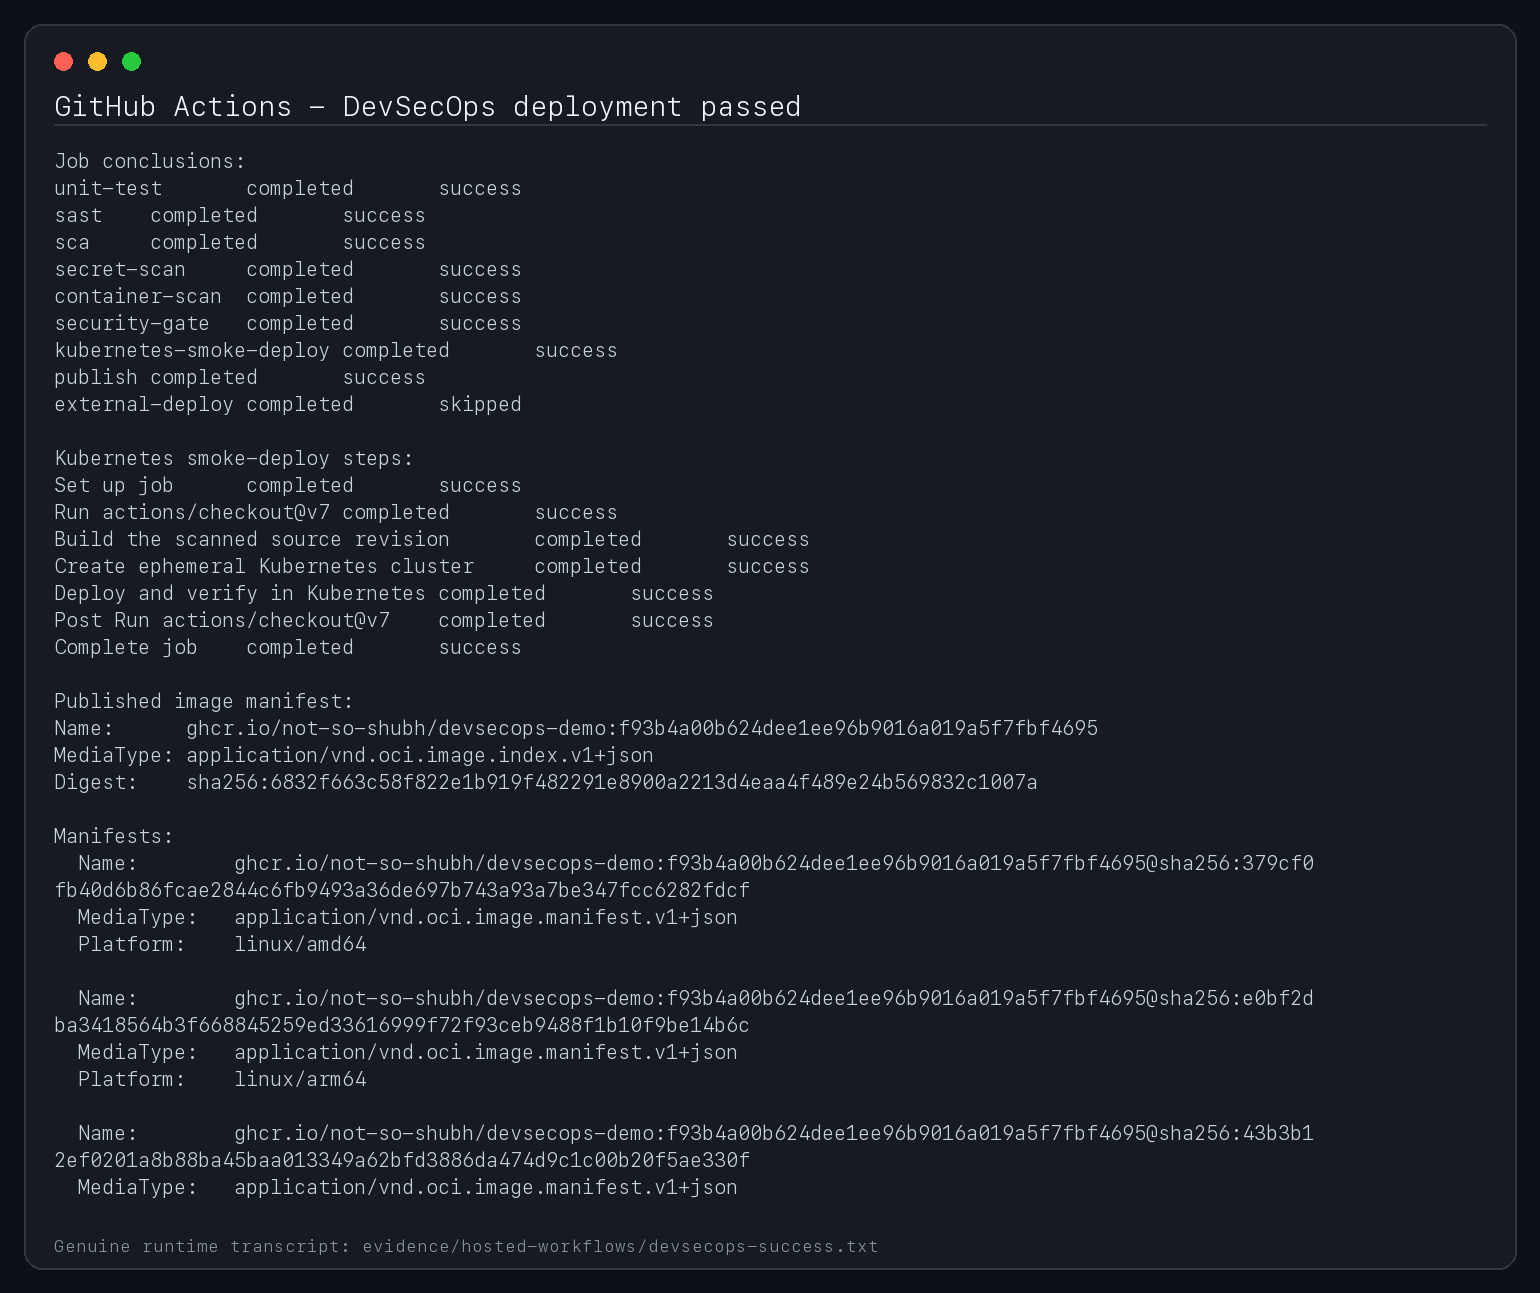
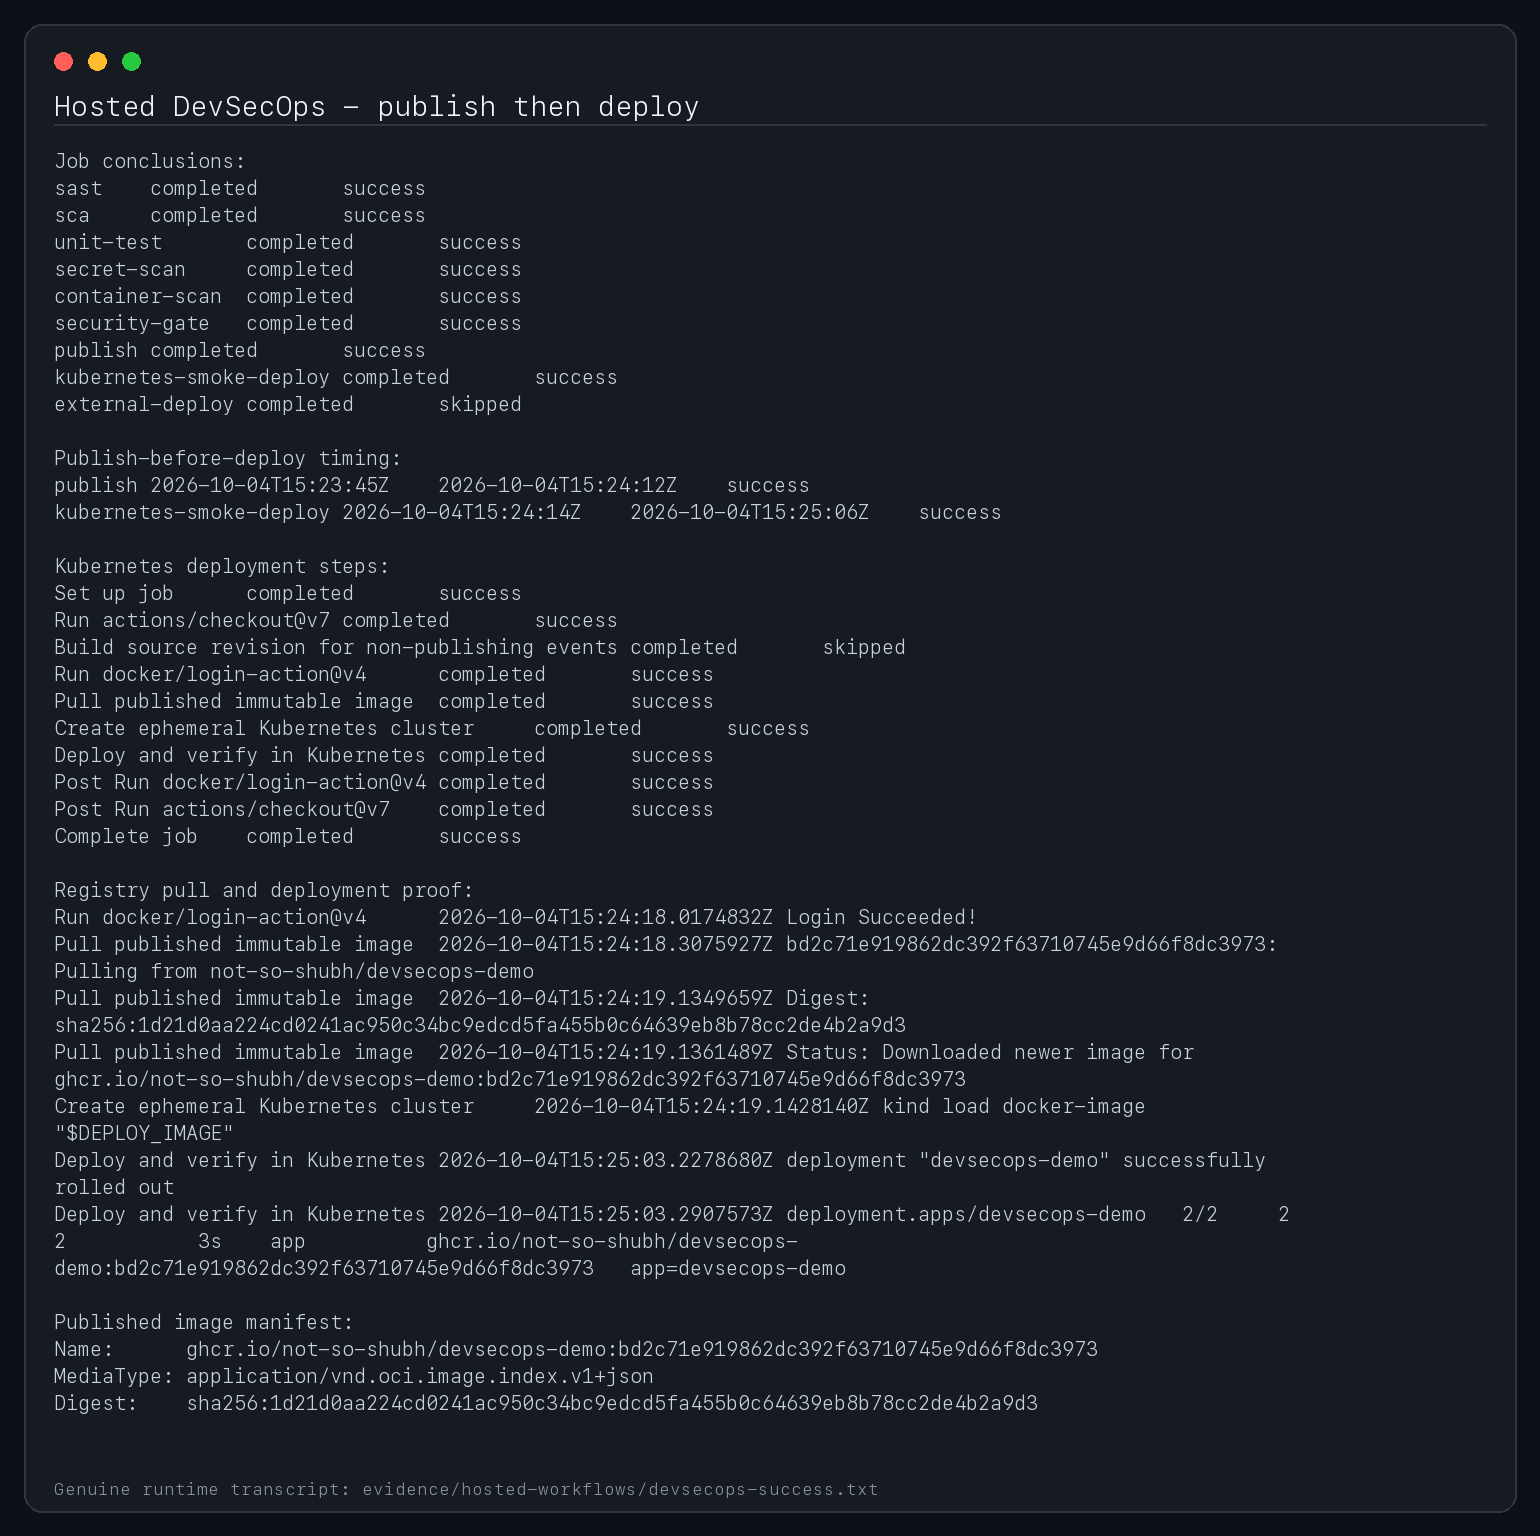
Refresh hosted publish-and-deploy evidence

Changed region(s): [[0.0312, 0.0309, 0.8416, 0.9281], [0.0312, 0.959, 0.5922, 0.9899], [0.561, 0.4022, 0.5922, 0.4331]]

diff --git a/evidence/hosted-workflows/README.md b/evidence/hosted-workflows/README.md
@@ -4,8 +4,8 @@ These transcripts were captured from successful GitHub-hosted runs, and the PNGs
 
 | Workflow | Successful run | Evidence |
 |---|---|---|
-| CI/CD | [37197231672](https://github.com/not-so-shubh/devops-homework/actions/runs/37197231672) | [transcript](ci-cd-success.txt) · [capture](01-ci-cd-success.png) |
-| DevSecOps | [37197332796](https://github.com/not-so-shubh/devops-homework/actions/runs/37197332796) | [transcript](devsecops-success.txt) · [capture](02-devsecops-success.png) |
-| Final project | [37197332795](https://github.com/not-so-shubh/devops-homework/actions/runs/37197332795) | [transcript](final-project-success.txt) · [capture](03-final-project-success.png) |
+| CI/CD | [37212766677](https://github.com/not-so-shubh/devops-homework/actions/runs/37212766677) | [transcript](ci-cd-success.txt) · [capture](01-ci-cd-success.png) |
+| DevSecOps | [37212766674](https://github.com/not-so-shubh/devops-homework/actions/runs/37212766674) | [transcript](devsecops-success.txt) · [capture](02-devsecops-success.png) |
+| Final project | [37212766713](https://github.com/not-so-shubh/devops-homework/actions/runs/37212766713) | [transcript](final-project-success.txt) · [capture](03-final-project-success.png) |
 
-Each transcript records every job conclusion, the Kubernetes deployment job's steps, and the published OCI image index. All three Kubernetes smoke deployments succeeded. Each published image includes `linux/amd64` and `linux/arm64` manifests plus BuildKit attestations.
+Each transcript records every job conclusion, publish/deploy timestamps, the Kubernetes deployment steps, registry pull output, workload health, and the published OCI image index. All three runs prove that publishing completed before Kubernetes pulled and deployed the immutable SHA tag. Each published image includes `linux/amd64` and `linux/arm64` manifests plus BuildKit attestations.
